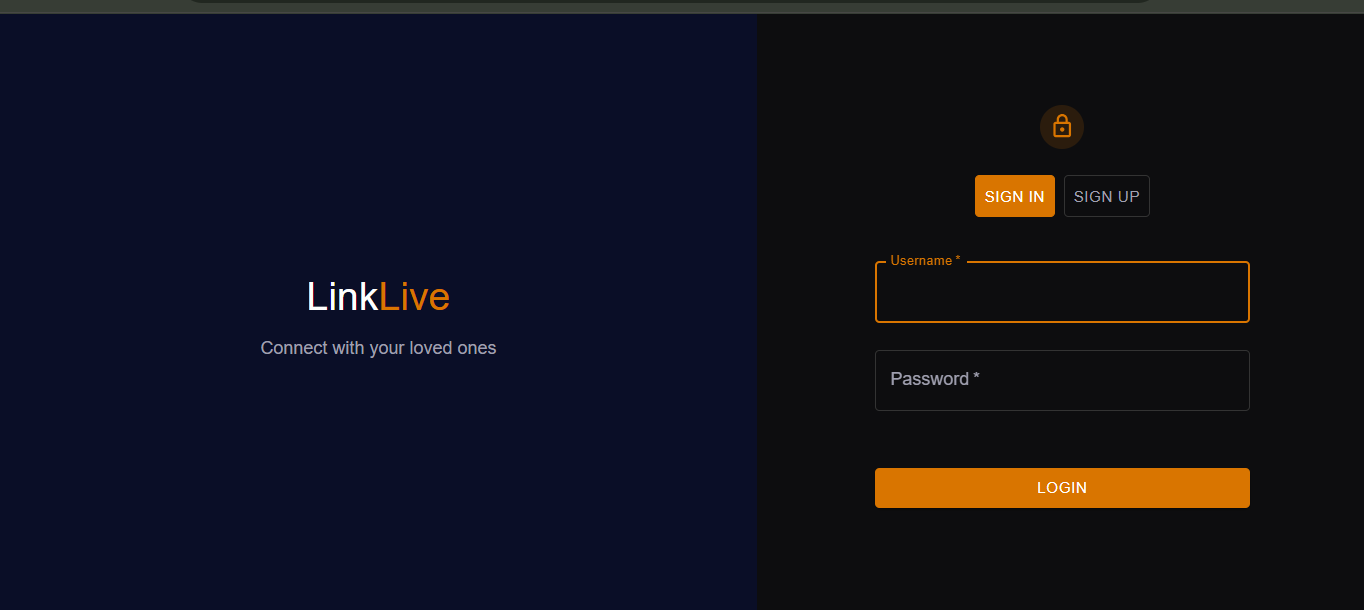
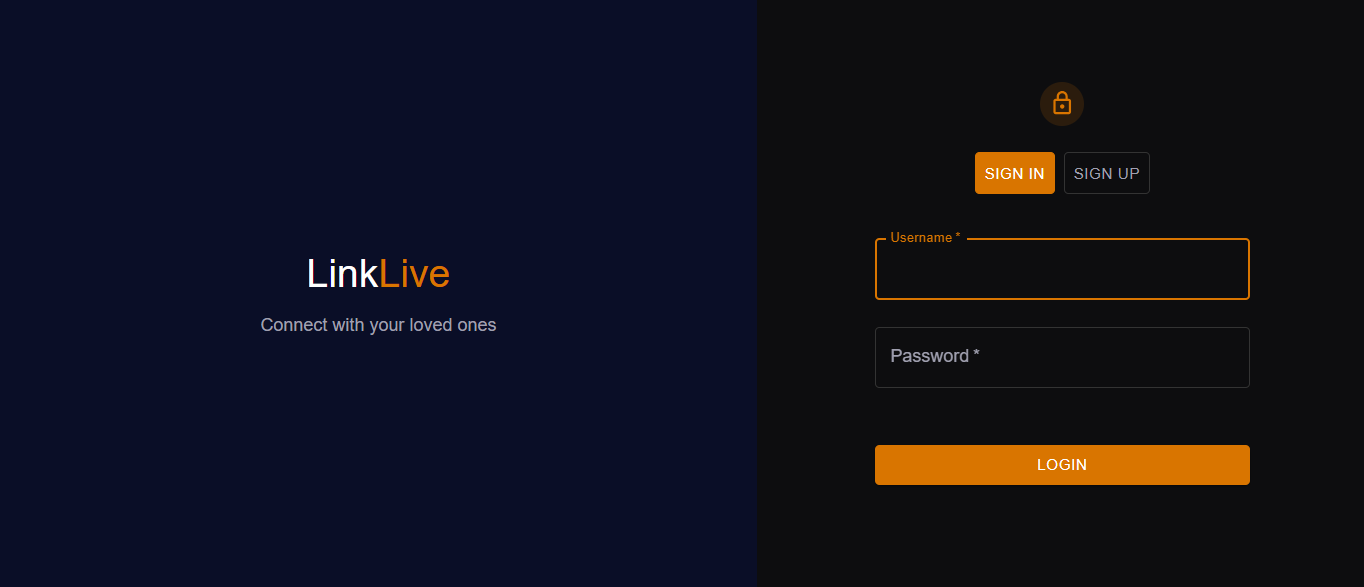
final commit

diff --git a/frontend/src/styles/VideoMeet.css b/frontend/src/styles/VideoMeet.css
@@ -8,10 +8,13 @@
 .meetUserVideo {
   position: absolute;
   bottom: 20px;
-  left: 20px;
+  left: 10px !important;
   height: 25vh;
   width: 25vw;
-  border-radius: 10px;
+  border-radius: 10px !important;
+  overflow: hidden;
+  object-fit: cover;
+  display: block;
   z-index: 2;
 }
 
@@ -45,19 +48,9 @@
   font-size: 1.4rem;
 }
 
-/* .conferenceView {
-  display: flex;
-  padding: 10px;
-  gap: 5px;
-  height: 80vh;
-  width: 75vw;
-  align-items: center;
-  justify-content: center;
-} */
-
 .conferenceView {
   display: flex;
-  padding: 10px;
+  padding: 5px;
   gap: 5px;
   height: 80vh;
   width: 100%;
@@ -74,16 +67,6 @@
 .chat-closed .conferenceView {
   width: 100%;
 }
-
-/* .conferenceView video {
-  width: 50vw !important;
-  height: 65vh !important;
-  min-width: 300px;
-  object-fit: cover;
-  border-radius: 10px;
-  background: #14183a;
-  border: 1px solid #262b52;
-} */
 
 .conferenceView video {
   width: 100% !important;

diff --git a/frontend/src/pages/VideoMeet.jsx b/frontend/src/pages/VideoMeet.jsx
@@ -630,14 +630,24 @@ export default function VideoMeetComponent() {
               <></>
             )}
 
-            <Badge badgeContent={newMessages} max={999} color="orange">
+            {/* <Badge badgeContent={newMessages} max={999} color="orange">
               <IconButton
                 onClick={() => setModal(!showModal)}
                 style={{ color: "white" }}
               >
                 <ChatIcon />{" "}
               </IconButton>
-            </Badge>
+            </Badge> */}
+            {newMessages > 0 && (
+              <Badge badgeContent={newMessages} color="orange">
+                <IconButton
+                  onClick={() => setModal(!showModal)}
+                  style={{ color: "white" }}
+                >
+                  <ChatIcon />
+                </IconButton>
+              </Badge>
+            )}
           </div>
 
           <video

diff --git a/README.md b/README.md
@@ -8,23 +8,23 @@ A Zoom-inspired video conferencing web app built with the MERN stack, WebRTC, an
 
 ### Landing Page
 
-![Landing Page](./screenshots/landing.png)
+![Landing Page](./screenshots/LandingPage.png)
 
 ### Authentication
 
-![Auth Page](./screenshots/auth.png)
+![Auth Page](./screenshots/AuthPage.png)
 
 ### Home
 
-![Home Page](./screenshots/home.png)
+![Home Page](./screenshots/HomePage.png)
 
 ### In-Call Screen
 
-![In-Call Screen](./screenshots/in-call.png)
+![In-Call Screen](./screenshots/CallScreen.png)
 
 ### Meeting History
 
-![History Page](./screenshots/history.png)
+![History Page](./screenshots/MeetingHistory.png)
 
 ## ✨ Features
 
